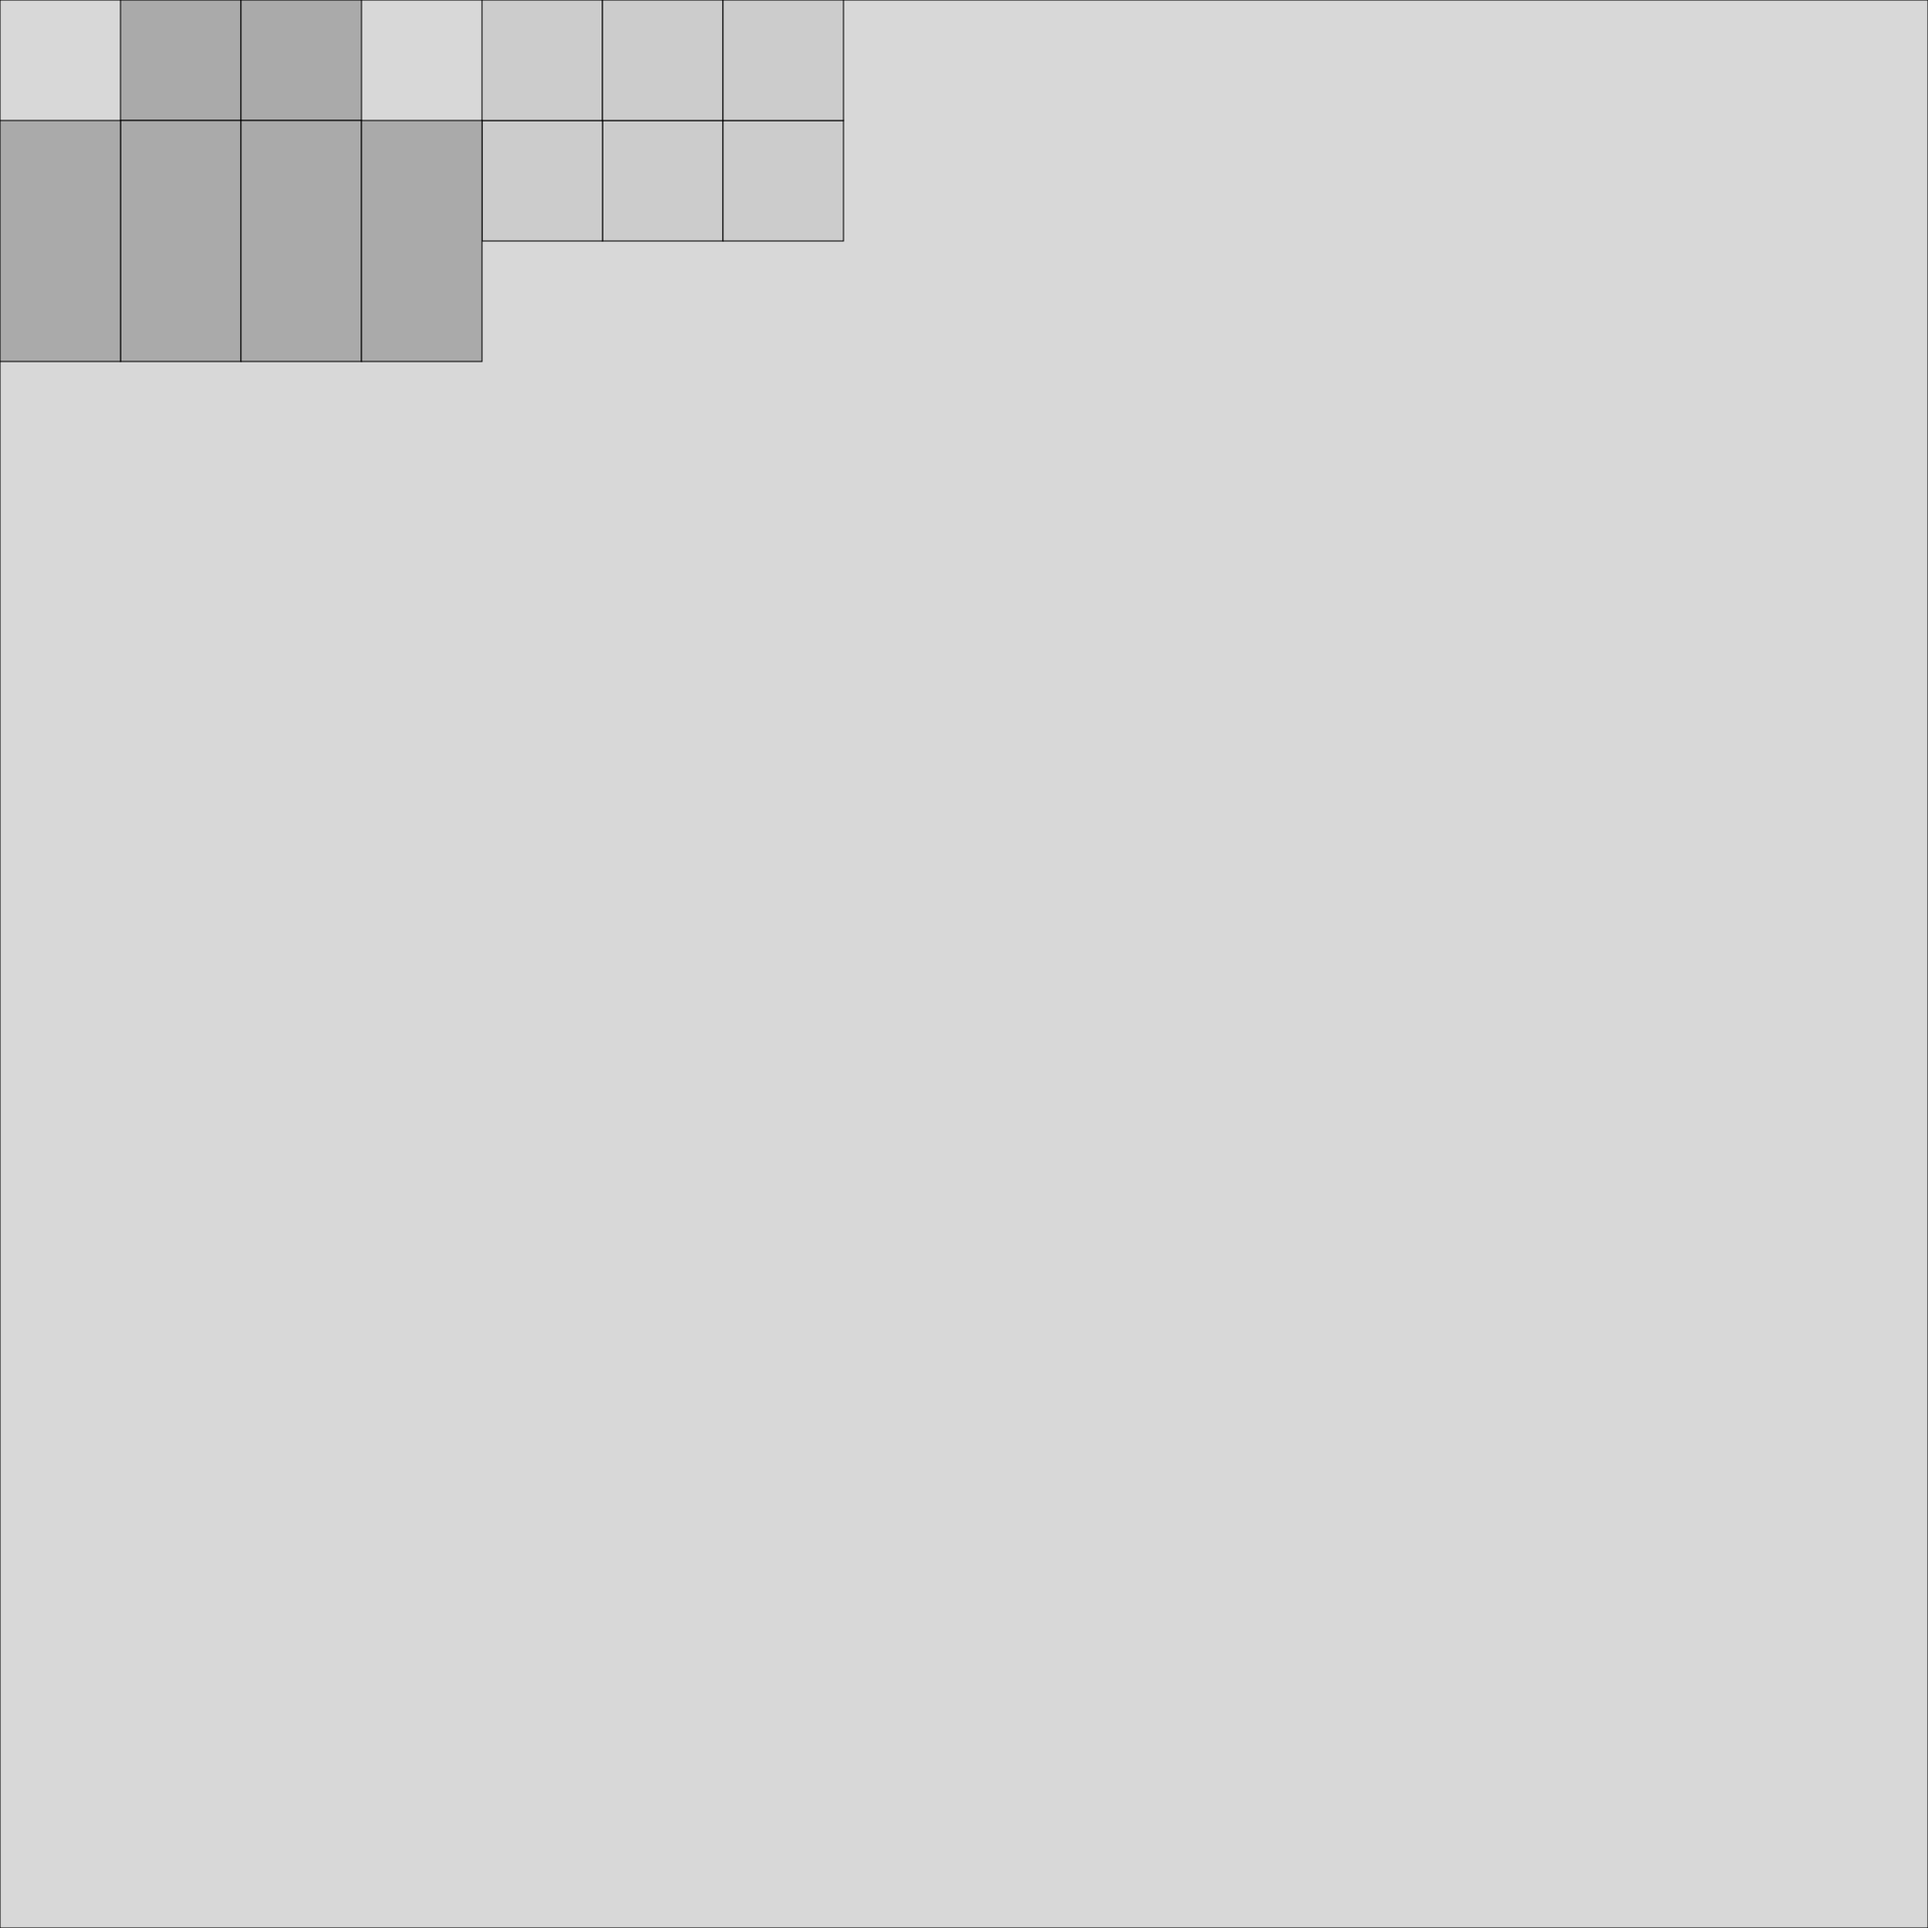
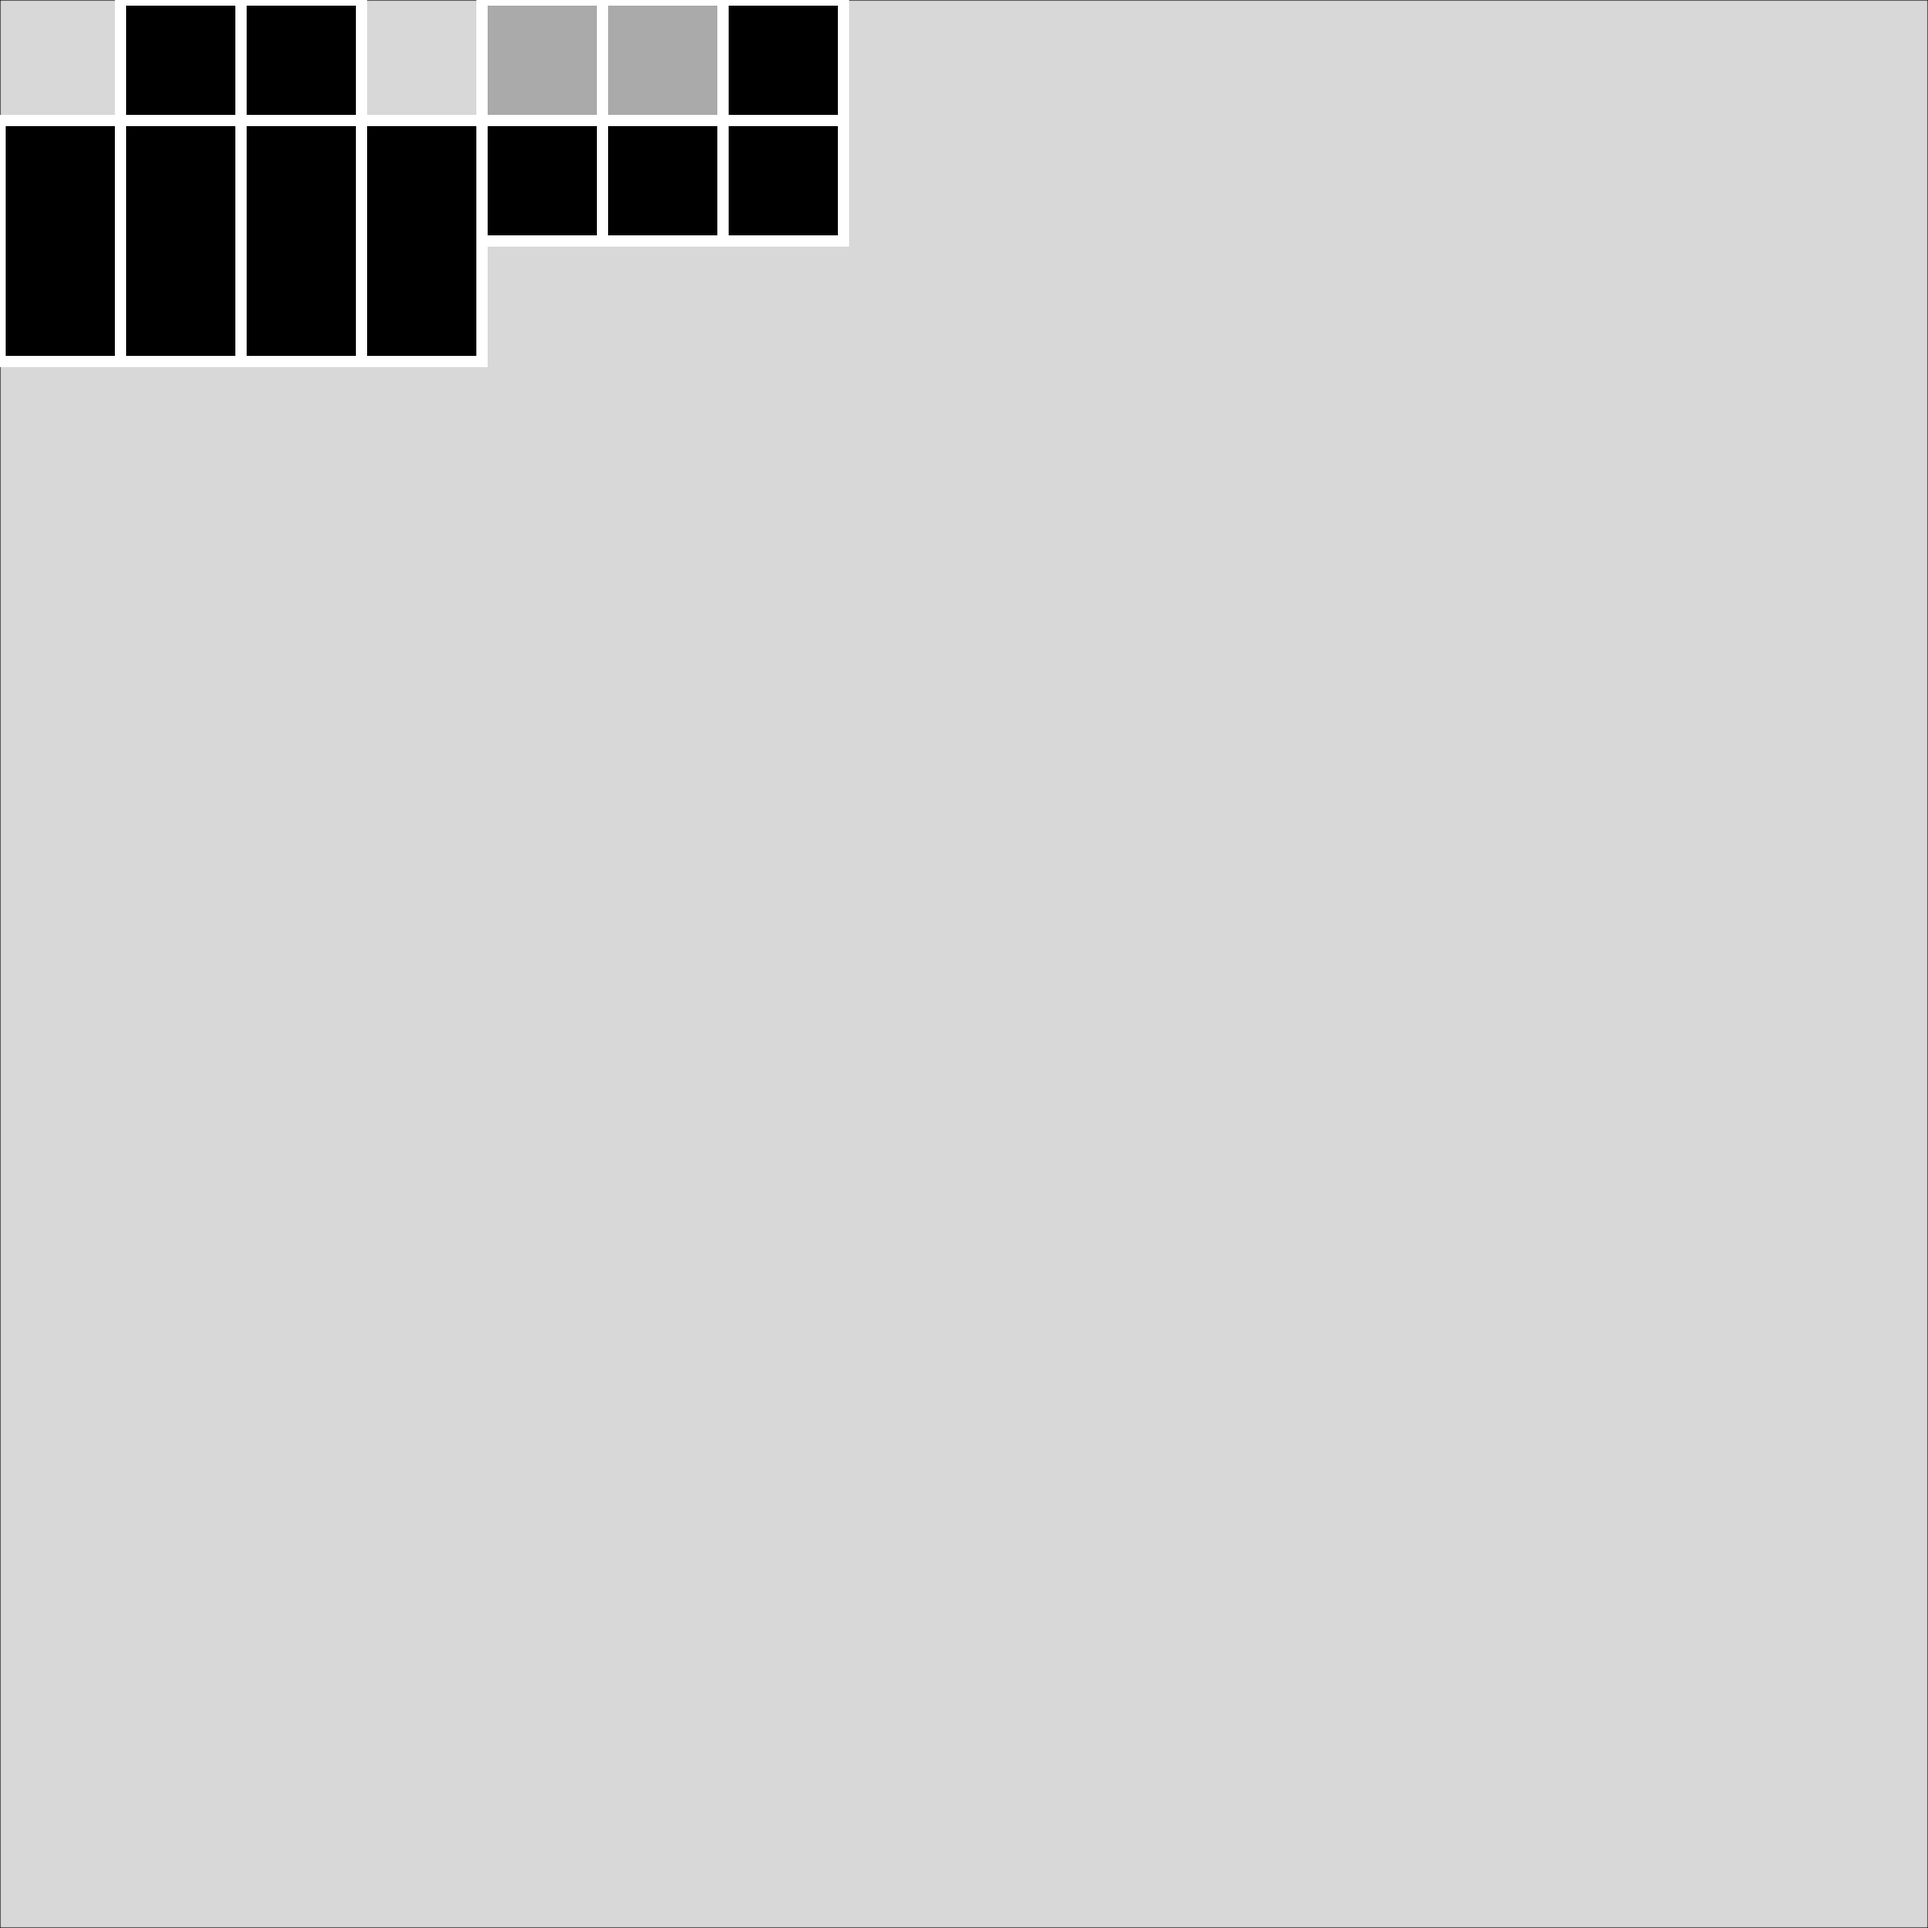
feat: working towards human-0-wip.tex.svg uv mapping

Changed region(s): [[0.0, 0.0, 0.4375, 0.1875]]

diff --git a/docs/TODO.md b/docs/TODO.md
@@ -44,7 +44,10 @@
     - ✅ example head layout
     - ℹ overlays are just particular body/head layout
     - ℹ 2048 * 2048
-    - 🚧 connect to human-0
+    - ✅ use temp skin human-0-wip.tex.svg
+    - remap head and head overlay
+    - remap body and body overlay
+    - copy temp skin to human-0.tex.svg and remove human-0-wip.tex.svg
     - uv-map "base" head (cuboid edge look)
     - uv-map "base" body (cuboid edge look)
     - uv-map "base" head-overlay (face)
